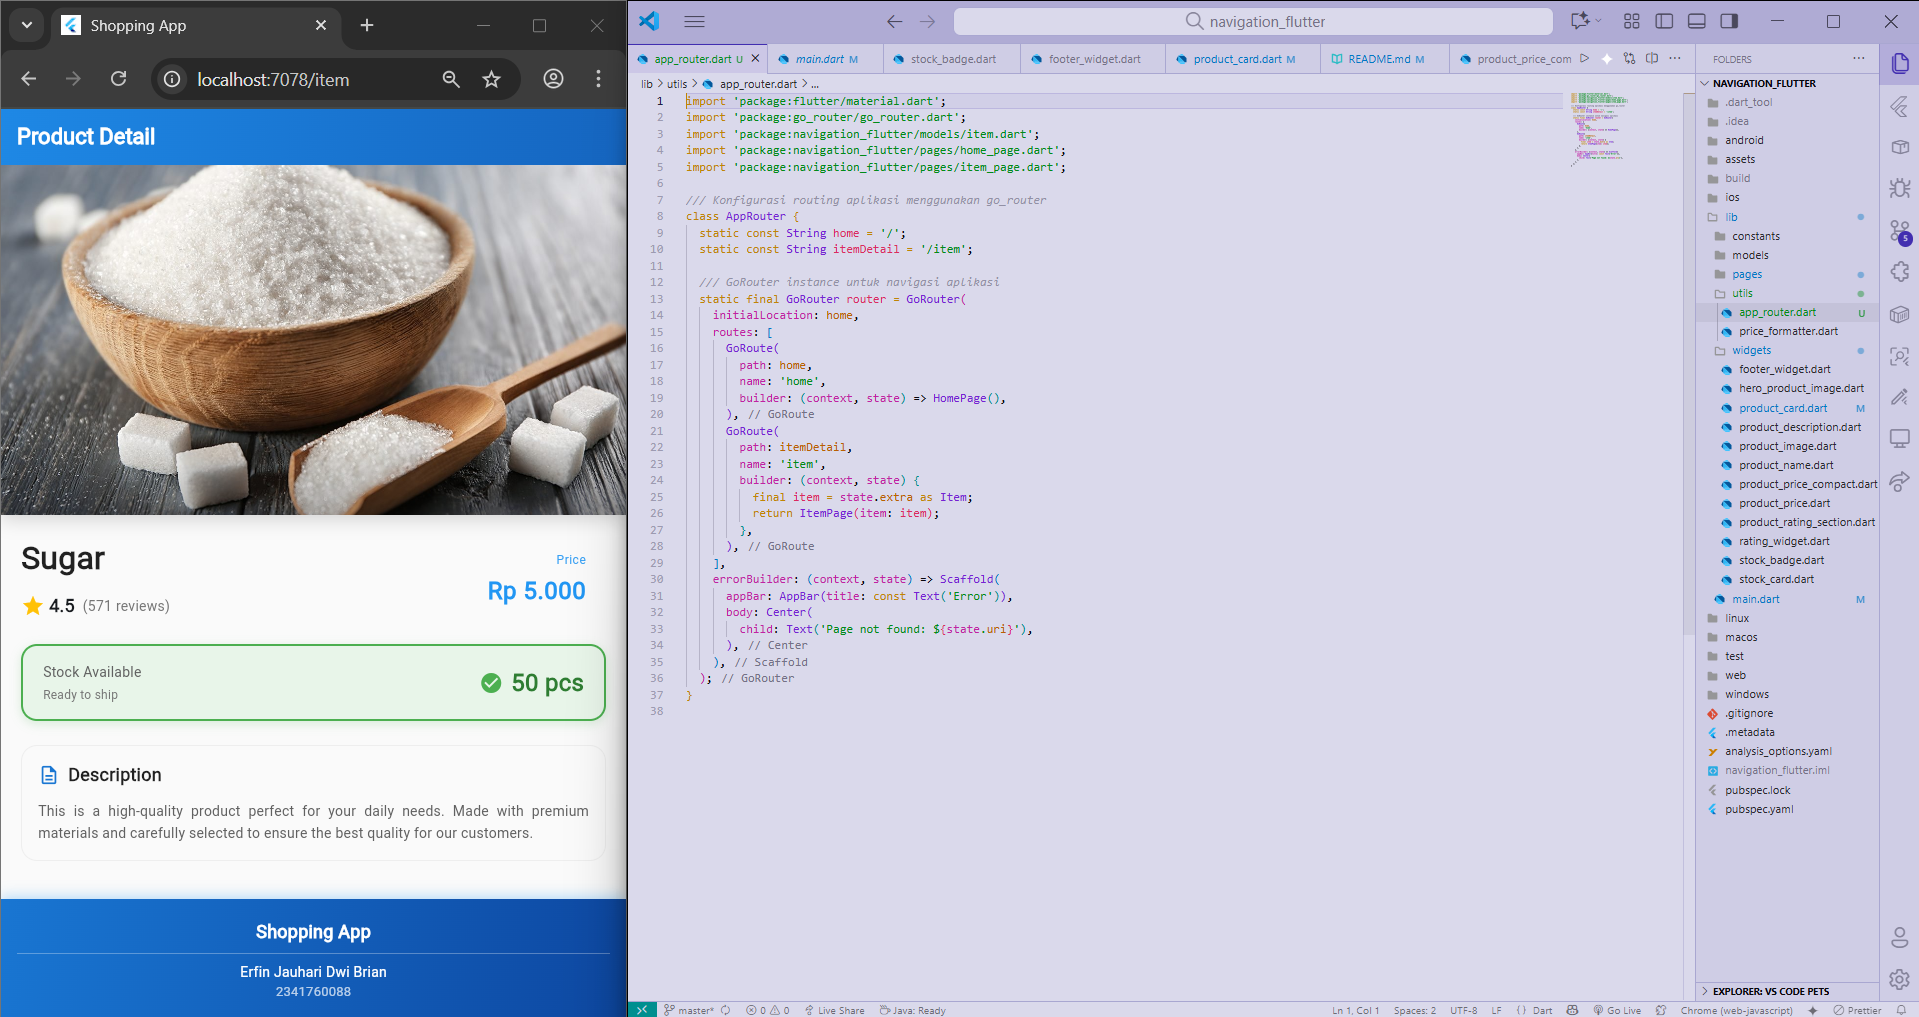
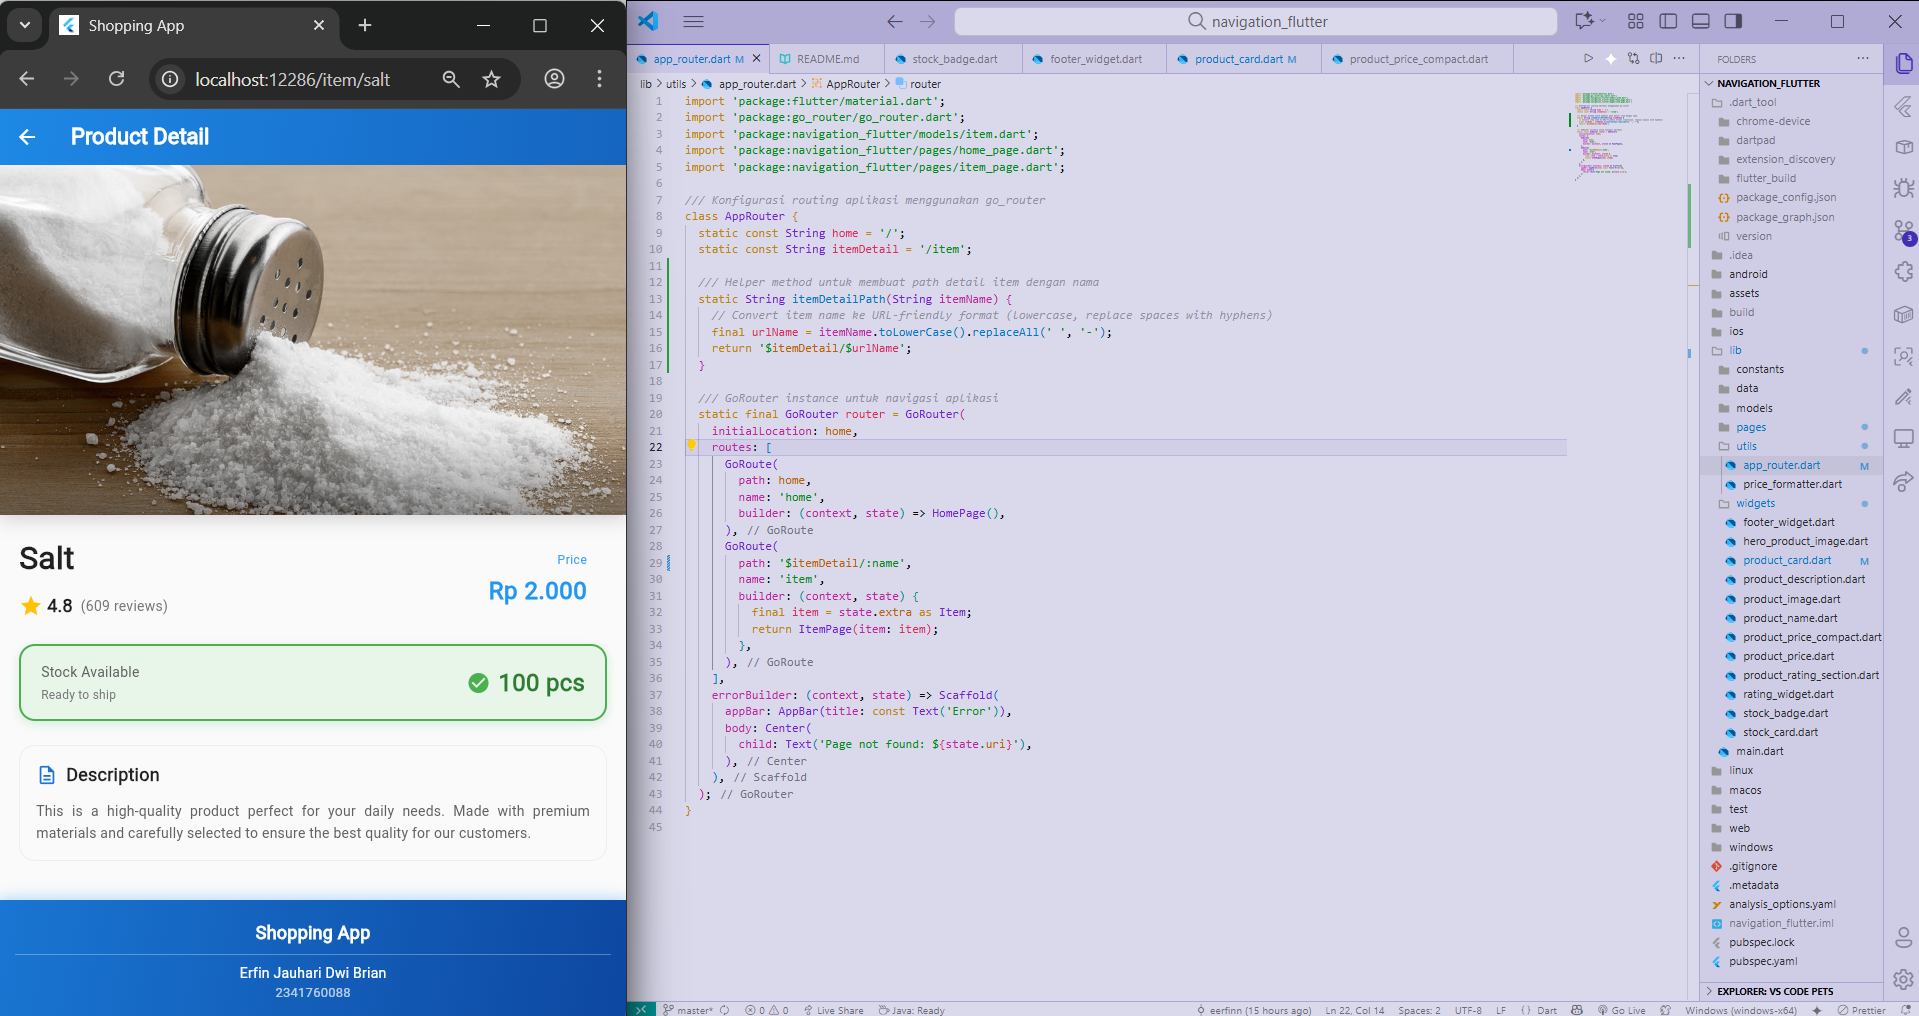
Update Tugas Praktikum 2 - Modifikasi menggunakan plugin go_router

diff --git a/navigation_flutter/lib/pages/item_page.dart b/navigation_flutter/lib/pages/item_page.dart
@@ -1,4 +1,5 @@
 import 'package:flutter/material.dart';
+import 'package:go_router/go_router.dart';
 import 'package:navigation_flutter/models/item.dart';
 import 'package:navigation_flutter/constants/app_constants.dart';
 import 'package:navigation_flutter/widgets/hero_product_image.dart';
@@ -40,7 +41,7 @@ class ItemPage extends StatelessWidget {
     );
   }
 
-  /// AppBar dengan gradient background
+  /// AppBar dengan gradient background dan back button eksplisit
   PreferredSizeWidget _buildAppBar() {
     return AppBar(
       title: const Text(
@@ -49,6 +50,13 @@ class ItemPage extends StatelessWidget {
       ),
       backgroundColor: Colors.blue,
       iconTheme: const IconThemeData(color: Colors.white),
+      leading: Builder(
+        builder: (context) => IconButton(
+          icon: const Icon(Icons.arrow_back, color: Colors.white),
+          onPressed: () => context.go('/'),
+          tooltip: 'Back to Home',
+        ),
+      ),
       elevation: 0,
       flexibleSpace: Container(
         decoration: BoxDecoration(

diff --git a/navigation_flutter/lib/utils/app_router.dart b/navigation_flutter/lib/utils/app_router.dart
@@ -9,6 +9,13 @@ class AppRouter {
   static const String home = '/';
   static const String itemDetail = '/item';
 
+  /// Helper method untuk membuat path detail item dengan nama
+  static String itemDetailPath(String itemName) {
+    // Convert item name ke URL-friendly format (lowercase, replace spaces with hyphens)
+    final urlName = itemName.toLowerCase().replaceAll(' ', '-');
+    return '$itemDetail/$urlName';
+  }
+
   /// GoRouter instance untuk navigasi aplikasi
   static final GoRouter router = GoRouter(
     initialLocation: home,
@@ -19,7 +26,7 @@ class AppRouter {
         builder: (context, state) => HomePage(),
       ),
       GoRoute(
-        path: itemDetail,
+        path: '$itemDetail/:name',
         name: 'item',
         builder: (context, state) {
           final item = state.extra as Item;

diff --git a/navigation_flutter/lib/utils/price_formatter.dart b/navigation_flutter/lib/utils/price_formatter.dart
@@ -1,8 +1,6 @@
 /// Utility class untuk formatting harga
 class PriceFormatter {
   /// Format harga menjadi format Rupiah dengan pemisah titik
-  /// 
-  /// Contoh: 5000 -> "5.000", 1000000 -> "1.000.000"
   static String format(int price) {
     return price.toString().replaceAllMapped(
       RegExp(r'(\d{1,3})(?=(\d{3})+(?!\d))'),
@@ -11,8 +9,6 @@ class PriceFormatter {
   }
 
   /// Format harga dengan prefix "Rp"
-  /// 
-  /// Contoh: 5000 -> "Rp 5.000"
   static String formatWithCurrency(int price) {
     return 'Rp ${format(price)}';
   }

diff --git a/navigation_flutter/lib/widgets/product_card.dart b/navigation_flutter/lib/widgets/product_card.dart
@@ -17,7 +17,8 @@ class ProductCard extends StatelessWidget {
   const ProductCard({super.key, required this.item});
 
   void _navigateToDetail(BuildContext context) {
-    context.go(AppRouter.itemDetail, extra: item);
+    // Navigate dengan path parameter untuk nama item
+    context.go(AppRouter.itemDetailPath(item.name), extra: item);
   }
 
   @override

diff --git a/navigation_flutter/lib/widgets/footer_widget.dart b/navigation_flutter/lib/widgets/footer_widget.dart
@@ -2,7 +2,6 @@ import 'package:flutter/material.dart';
 import 'package:navigation_flutter/constants/app_constants.dart';
 
 /// Widget footer yang ditampilkan di bagian bawah setiap halaman
-/// Menampilkan informasi aplikasi dan developer
 class FooterWidget extends StatelessWidget {
   const FooterWidget({super.key});
 
